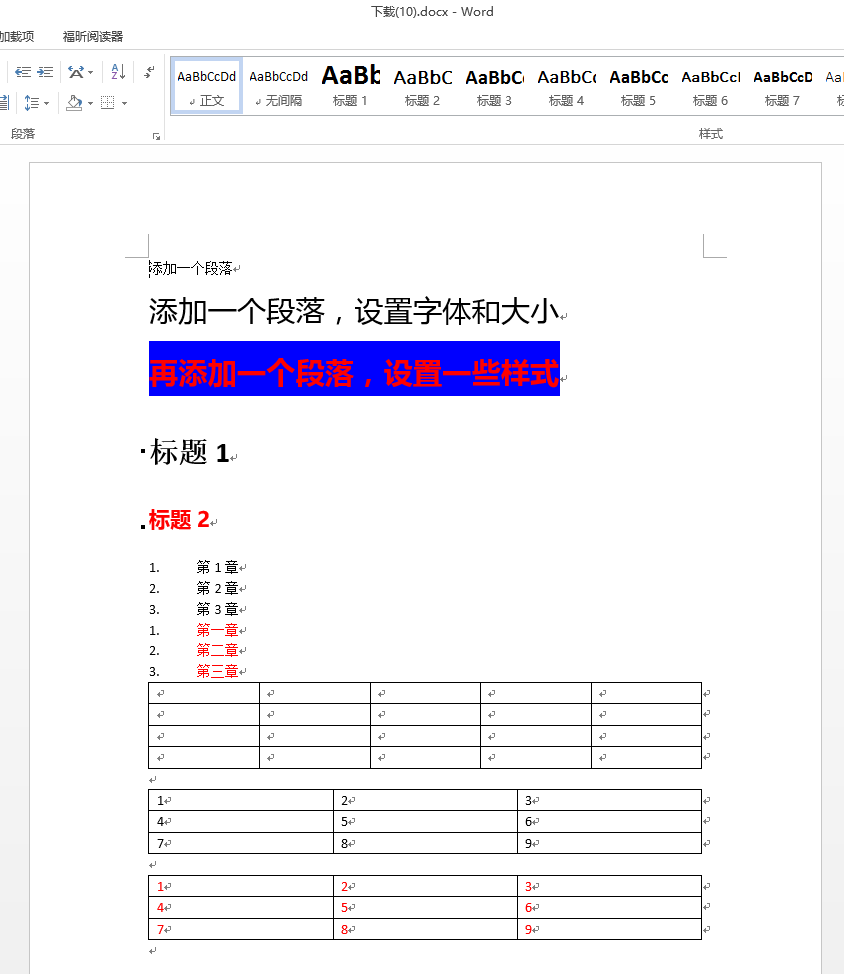
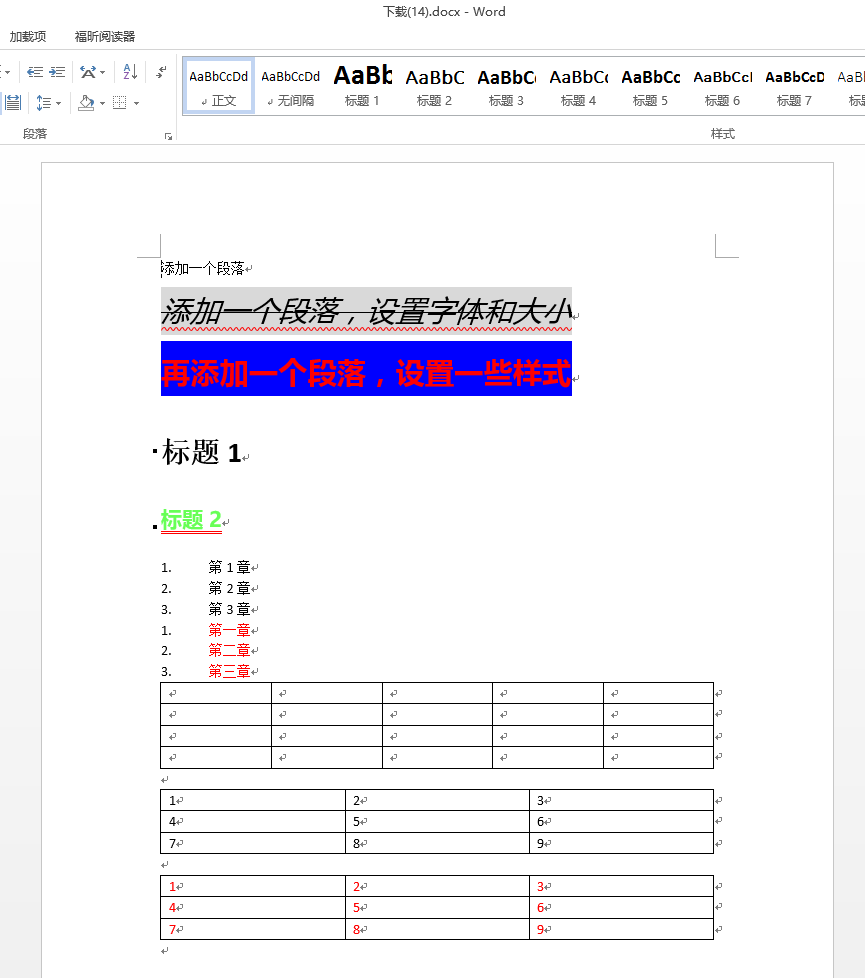
修改demo
添加样式使用示例

diff --git a/demo.html b/demo.html
@@ -16,7 +16,12 @@
         doc.addParagraph("添加一个段落");
         doc.addParagraph("添加一个段落，设置字体和大小",{
             font:"Microsoft YaHei UI",
-            fontSize:"44"
+            fontSize:"44",
+            italic:true,
+            underline:doc.UnderlineType.Wave,
+            underlineColor:"FF0000",
+            strike:true,
+            shadow:"FFFFFF"
         });
         doc.addParagraph("再添加一个段落，设置一些样式",{
             font:"Microsoft YaHei UI",
@@ -29,7 +34,9 @@
         doc.addHeader("标题1", doc.HeaderType.H1);
         doc.addHeader("标题2", doc.HeaderType.H2,{
             font:"Microsoft YaHei UI",
-            color:"FF0000"
+            underline:doc.UnderlineType.Double,
+            color:"67ff56",
+            underlineColor:"FF0000"
         });
 
         doc.addList(['第1章', '第2章', '第3章']);
